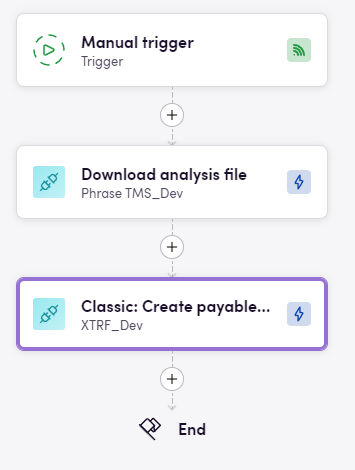
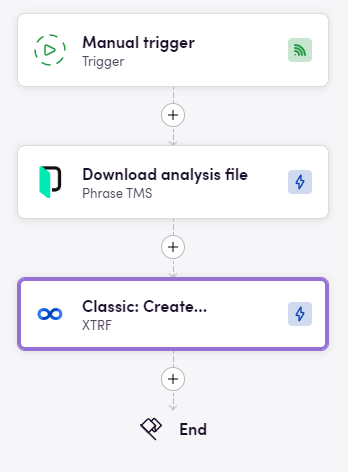
Updated docs

diff --git a/README.md b/README.md
@@ -179,11 +179,11 @@ Before you can connect you need to make sure that:
 
 This example shows one of many use cases. Here, whenever an article is published we fetch the missing translations and retrieve the article as an HTML file. Then we create a new Phrase project with the missing locales as the target languages and upload the article as jobs. We link the project with the article to automatically push the new translations back when they are done in a second bird.
 
-## Analysis with others systems
+## Analysis with other systems
 
-Our app allows you to export analysis file (via **Download analysus file** action) and then use it in your bird whenewher you want. You also can specify format in which you want to download it (it can be: json, csv or log), then you can import this file in service you want to.
+Our app allows you to export an analysis file (via the **Download analysis file** action) and use it in your workflow whenever you need it. You can also specify the format in which you want to download the file (such as JSON, CSV, or log), and then import it into the service of your choice.
 
-This just a bird for demonstration this feature between Phrase and XTRF apps:
+Here's an example to demonstrate this feature between the Phrase and XTRF apps:
 
 ![phrase-xtrf-1](image/README/phrase-xtrf-1.png)
 
